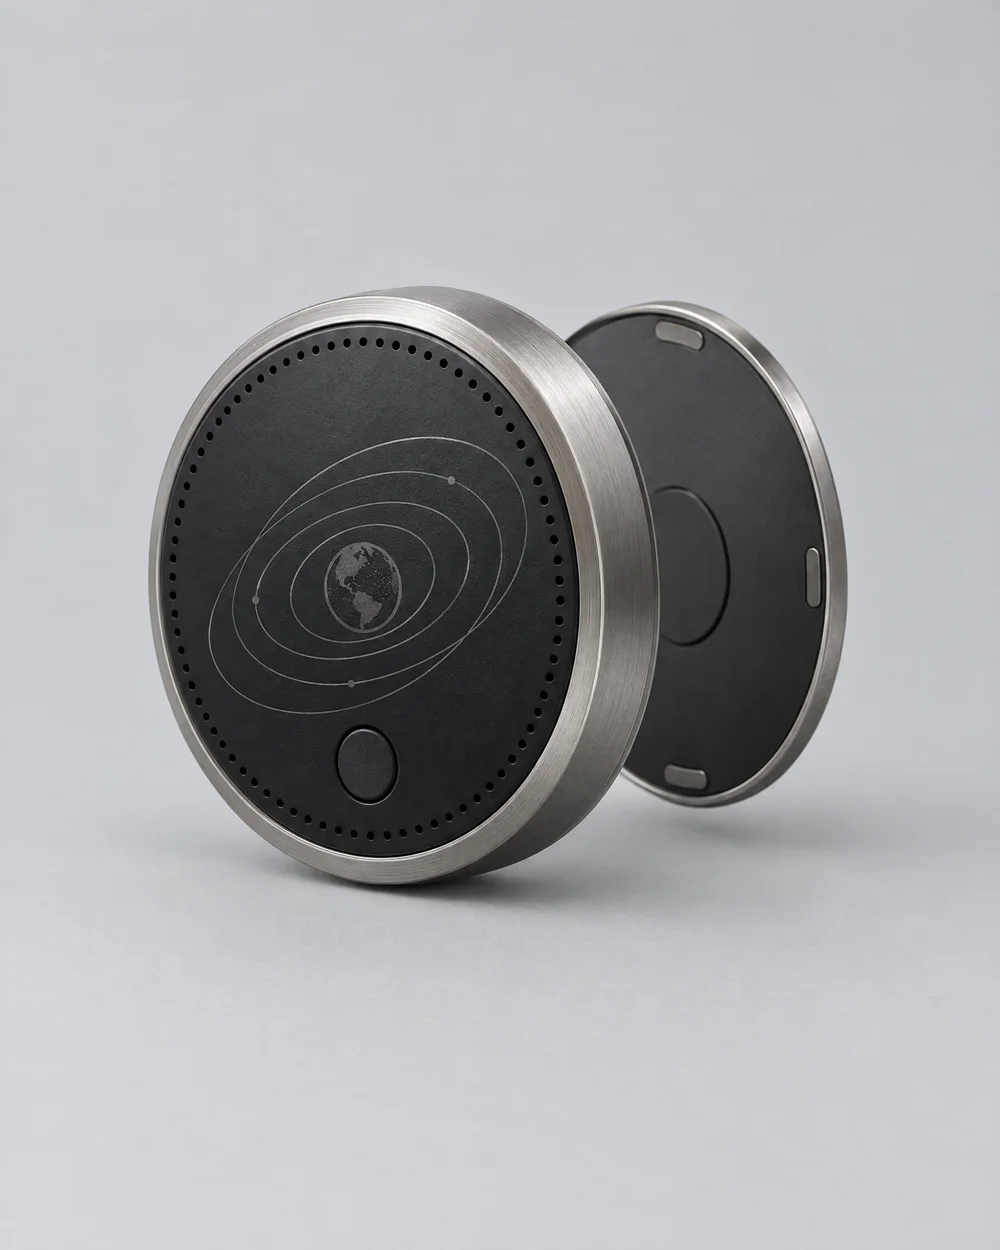
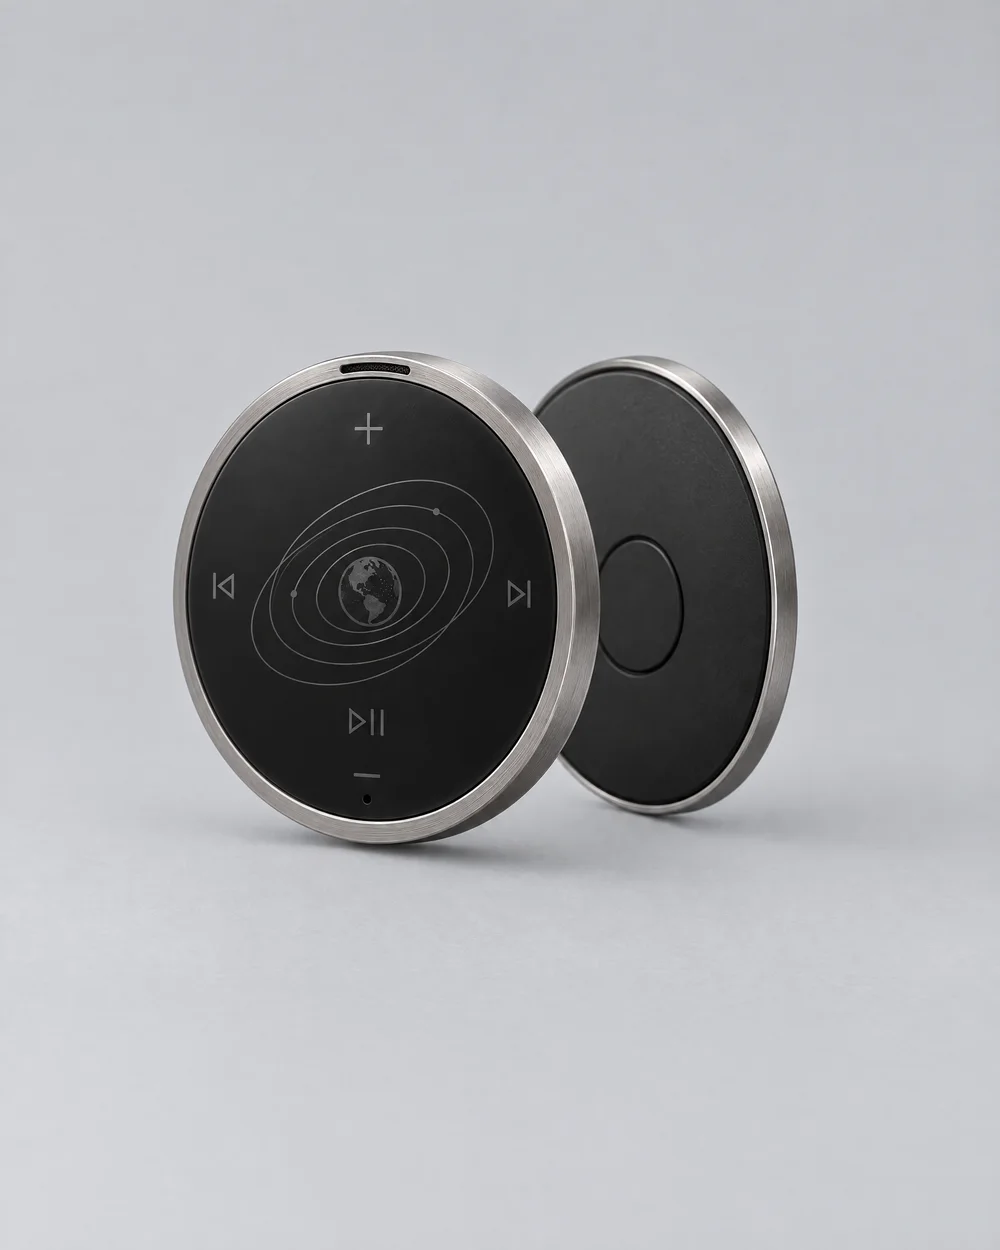
Modules priced and sold separately; slim one-inch comm with touch controls; beacon in use
Claude-Session: https://claude.ai/code/session_01EZWqeGF6mEX8PaVaif6TWU

Changed region(s): [[0.124, 0.2184, 0.868, 0.7488]]

diff --git a/donanddoff/agency/index.html b/donanddoff/agency/index.html
@@ -64,15 +64,18 @@
 </div></section>
 
 <section class="mods"><div class="wrap">
-  <div class="head-row"><div><p class="mono mute">Modules · In development</p><h2 style="margin-top:12px;max-width:12em">Clip on. Connect.</h2></div>
+  <div class="head-row"><div><p class="mono mute">Modules · Sold separately</p><h2 style="margin-top:12px;max-width:12em">Clip on. Connect.</h2></div>
   <p class="mute" style="max-width:26em">Magnetic modules that clip onto the jacket. A comm badge for calls and audio. A beacon for low light.</p></div>
-  <div class="mod-grid">
-    <figure class="mod-wide"><img src="../images/module-worn.webp" alt="A hand tapping a round comm badge clipped to the chest of the Pressure-Line jacket" loading="lazy"></figure>
-    <article class="mod"><figure><img src="../images/module-comm.webp" alt="Round comm badge with brushed titanium rim, engraved orbit rings and a magnetic backplate" loading="lazy"></figure>
-      <p class="mono mute">Module 01</p><h3>Comm</h3>
-      <ul><li>Tap to answer and end calls</li><li>Play, pause and skip audio</li><li>Built-in speaker and microphone</li><li>Bluetooth</li><li>Magnetic clip</li></ul></article>
+  <div class="mod-row">
+    <figure class="mod-shot"><img src="../images/module-worn.webp" alt="A finger tapping the inch-wide comm badge clipped to the chest of the Pressure-Line jacket" loading="lazy"></figure>
+    <article class="mod"><figure><img src="../images/module-comm.webp" alt="Slim one-inch comm badge with titanium rim, engraved orbit rings and touch controls, beside its magnetic backplate" loading="lazy"></figure>
+      <div class="mod-head"><div><p class="mono mute">Module 01</p><h3>Comm</h3></div><p class="mod-price">$99</p></div>
+      <ul><li>About one inch across. Slim profile.</li><li>Touch controls: play/pause, volume, track skip</li><li>Answer and end calls</li><li>Built-in speaker and microphone</li><li>Bluetooth</li><li>Magnetic clip</li></ul></article>
+  </div>
+  <div class="mod-row flip">
+    <figure class="mod-shot"><img src="../images/module-beacon-worn.webp" alt="The beacon glowing on the chest of the Pressure-Line jacket on a city street at dusk" loading="lazy"></figure>
     <article class="mod"><figure><img src="../images/module-beacon.webp" alt="Slim clip-on light module with a white LED edge and a magnetic backplate" loading="lazy"></figure>
-      <p class="mono mute">Module 02</p><h3>Beacon</h3>
+      <div class="mod-head"><div><p class="mono mute">Module 02</p><h3>Beacon</h3></div><p class="mod-price">$49</p></div>
       <ul><li>Clip-on light for low-light transit</li><li>One-button control</li><li>Magnetic clip</li></ul></article>
   </div>
 </div></section>

diff --git a/donanddoff/index.html b/donanddoff/index.html
@@ -64,15 +64,18 @@
 </div></section>
 
 <section class="mods"><div class="wrap">
-  <div class="head-row"><div><p class="mono mute">Modules · In development</p><h2 style="margin-top:12px;max-width:12em">Clip on. Connect.</h2></div>
+  <div class="head-row"><div><p class="mono mute">Modules · Sold separately</p><h2 style="margin-top:12px;max-width:12em">Clip on. Connect.</h2></div>
   <p class="mute" style="max-width:26em">Magnetic modules that clip onto the jacket. A comm badge for calls and audio. A beacon for low light.</p></div>
-  <div class="mod-grid">
-    <figure class="mod-wide"><img src="images/module-worn.webp" alt="A hand tapping a round comm badge clipped to the chest of the Pressure-Line jacket" loading="lazy"></figure>
-    <article class="mod"><figure><img src="images/module-comm.webp" alt="Round comm badge with brushed titanium rim, engraved orbit rings and a magnetic backplate" loading="lazy"></figure>
-      <p class="mono mute">Module 01</p><h3>Comm</h3>
-      <ul><li>Tap to answer and end calls</li><li>Play, pause and skip audio</li><li>Built-in speaker and microphone</li><li>Bluetooth</li><li>Magnetic clip</li></ul></article>
+  <div class="mod-row">
+    <figure class="mod-shot"><img src="images/module-worn.webp" alt="A finger tapping the inch-wide comm badge clipped to the chest of the Pressure-Line jacket" loading="lazy"></figure>
+    <article class="mod"><figure><img src="images/module-comm.webp" alt="Slim one-inch comm badge with titanium rim, engraved orbit rings and touch controls, beside its magnetic backplate" loading="lazy"></figure>
+      <div class="mod-head"><div><p class="mono mute">Module 01</p><h3>Comm</h3></div><p class="mod-price">$99</p></div>
+      <ul><li>About one inch across. Slim profile.</li><li>Touch controls: play/pause, volume, track skip</li><li>Answer and end calls</li><li>Built-in speaker and microphone</li><li>Bluetooth</li><li>Magnetic clip</li></ul></article>
+  </div>
+  <div class="mod-row flip">
+    <figure class="mod-shot"><img src="images/module-beacon-worn.webp" alt="The beacon glowing on the chest of the Pressure-Line jacket on a city street at dusk" loading="lazy"></figure>
     <article class="mod"><figure><img src="images/module-beacon.webp" alt="Slim clip-on light module with a white LED edge and a magnetic backplate" loading="lazy"></figure>
-      <p class="mono mute">Module 02</p><h3>Beacon</h3>
+      <div class="mod-head"><div><p class="mono mute">Module 02</p><h3>Beacon</h3></div><p class="mod-price">$49</p></div>
       <ul><li>Clip-on light for low-light transit</li><li>One-button control</li><li>Magnetic clip</li></ul></article>
   </div>
 </div></section>

diff --git a/donanddoff/styles.css b/donanddoff/styles.css
@@ -264,3 +264,15 @@ main{overflow-x:clip}
 .disclaimer{margin-top:24px;font-size:.92rem}
 .era p+p{margin-top:.8em}
 @media (max-width:860px){.mods .mod-grid{grid-template-columns:1fr}}
+
+/* v5 modules rows */
+.mod-row{display:grid;grid-template-columns:1.25fr 1fr;gap:12px;margin-top:40px;align-items:start}
+.mod-row+.mod-row{margin-top:12px}
+.mod-row.flip{grid-template-columns:1fr 1.25fr}
+.mod-row.flip .mod-shot{order:2}
+.mod-shot{margin:0;background:var(--paper)}
+.mod-shot img{width:100%;height:auto}
+.mod-row>*{min-width:0}
+.mod-head{display:flex;justify-content:space-between;align-items:end;gap:12px}
+.mod-price{font-weight:800;font-stretch:125%;font-size:1.6rem;margin-bottom:12px}
+@media (max-width:860px){.mod-row,.mod-row.flip{grid-template-columns:1fr}.mod-row.flip .mod-shot{order:0}}

diff --git a/donanddoff/agency/product.html b/donanddoff/agency/product.html
@@ -57,7 +57,7 @@
     <ul class="spec">
       <li>Six suit systems: chevron panels, reinforced shoulders, zipped pockets, full-length zip, collar and hood, cuffs and hem</li>
       <li>Individually numbered, with certificate of authenticity</li>
-      <li>Ready for Don &amp; Doff magnetic modules (comm and beacon, in development)</li>
+      <li>Pairs with Don &amp; Doff magnetic modules: Comm ($99) and Beacon ($49), sold separately</li>
       <li>Produced in Toronto</li>
       <li>One production run. No restock promised.</li>
     </ul>

diff --git a/donanddoff/product.html b/donanddoff/product.html
@@ -57,7 +57,7 @@
     <ul class="spec">
       <li>Six suit systems: chevron panels, reinforced shoulders, zipped pockets, full-length zip, collar and hood, cuffs and hem</li>
       <li>Individually numbered, with certificate of authenticity</li>
-      <li>Ready for Don &amp; Doff magnetic modules (comm and beacon, in development)</li>
+      <li>Pairs with Don &amp; Doff magnetic modules: Comm ($99) and Beacon ($49), sold separately</li>
       <li>Produced in Toronto</li>
       <li>One production run. No restock promised.</li>
     </ul>

diff --git a/donanddoff/build.py b/donanddoff/build.py
@@ -130,15 +130,18 @@ def build(page, brand, pre, switch=None, flat=False):
 </div></section>
 
 <section class="mods"><div class="wrap">
-  <div class="head-row"><div><p class="mono mute">Modules · In development</p><h2 style="margin-top:12px;max-width:12em">Clip on. Connect.</h2></div>
+  <div class="head-row"><div><p class="mono mute">Modules · Sold separately</p><h2 style="margin-top:12px;max-width:12em">Clip on. Connect.</h2></div>
   <p class="mute" style="max-width:26em">Magnetic modules that clip onto the jacket. A comm badge for calls and audio. A beacon for low light.</p></div>
-  <div class="mod-grid">
-    <figure class="mod-wide"><img src="{P}module-worn.webp" alt="A hand tapping a round comm badge clipped to the chest of the Pressure-Line jacket" loading="lazy"></figure>
-    <article class="mod"><figure><img src="{P}module-comm.webp" alt="Round comm badge with brushed titanium rim, engraved orbit rings and a magnetic backplate" loading="lazy"></figure>
-      <p class="mono mute">Module 01</p><h3>Comm</h3>
-      <ul><li>Tap to answer and end calls</li><li>Play, pause and skip audio</li><li>Built-in speaker and microphone</li><li>Bluetooth</li><li>Magnetic clip</li></ul></article>
+  <div class="mod-row">
+    <figure class="mod-shot"><img src="{P}module-worn.webp" alt="A finger tapping the inch-wide comm badge clipped to the chest of the Pressure-Line jacket" loading="lazy"></figure>
+    <article class="mod"><figure><img src="{P}module-comm.webp" alt="Slim one-inch comm badge with titanium rim, engraved orbit rings and touch controls, beside its magnetic backplate" loading="lazy"></figure>
+      <div class="mod-head"><div><p class="mono mute">Module 01</p><h3>Comm</h3></div><p class="mod-price">$99</p></div>
+      <ul><li>About one inch across. Slim profile.</li><li>Touch controls: play/pause, volume, track skip</li><li>Answer and end calls</li><li>Built-in speaker and microphone</li><li>Bluetooth</li><li>Magnetic clip</li></ul></article>
+  </div>
+  <div class="mod-row flip">
+    <figure class="mod-shot"><img src="{P}module-beacon-worn.webp" alt="The beacon glowing on the chest of the Pressure-Line jacket on a city street at dusk" loading="lazy"></figure>
     <article class="mod"><figure><img src="{P}module-beacon.webp" alt="Slim clip-on light module with a white LED edge and a magnetic backplate" loading="lazy"></figure>
-      <p class="mono mute">Module 02</p><h3>Beacon</h3>
+      <div class="mod-head"><div><p class="mono mute">Module 02</p><h3>Beacon</h3></div><p class="mod-price">$49</p></div>
       <ul><li>Clip-on light for low-light transit</li><li>One-button control</li><li>Magnetic clip</li></ul></article>
   </div>
 </div></section>
@@ -207,7 +210,7 @@ def build(page, brand, pre, switch=None, flat=False):
     <ul class="spec">
       <li>Six suit systems: chevron panels, reinforced shoulders, zipped pockets, full-length zip, collar and hood, cuffs and hem</li>
       <li>Individually numbered, with certificate of authenticity</li>
-      <li>Ready for Don &amp; Doff magnetic modules (comm and beacon, in development)</li>
+      <li>Pairs with Don &amp; Doff magnetic modules: Comm ($99) and Beacon ($49), sold separately</li>
       <li>Produced in Toronto</li>
       <li>One production run. No restock promised.</li>
     </ul>
